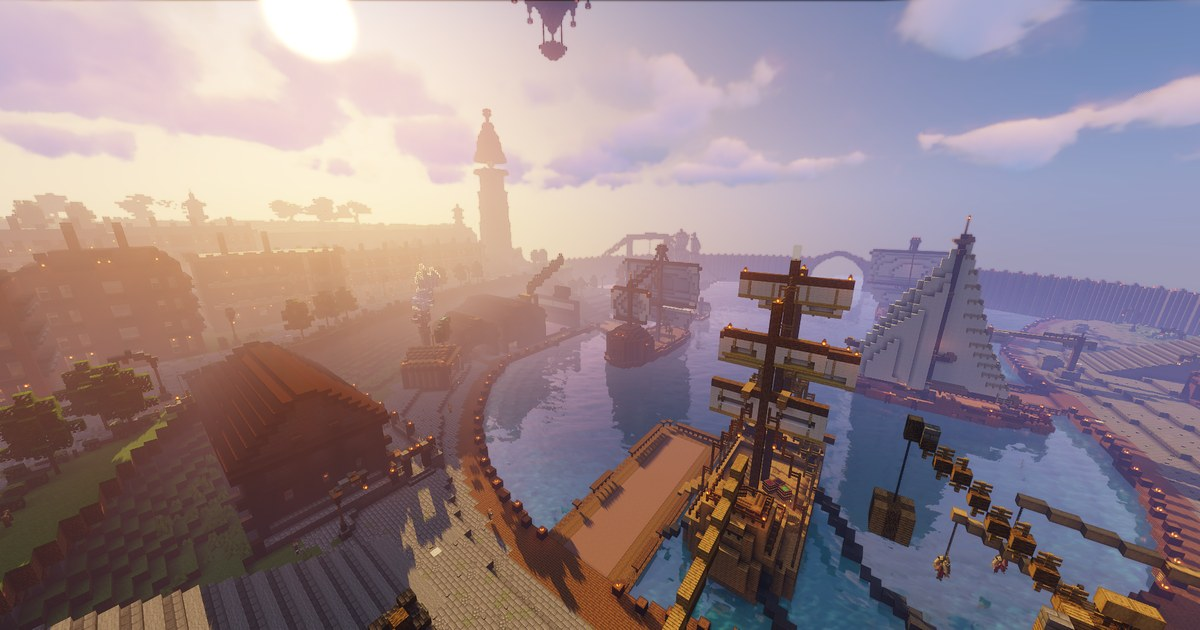
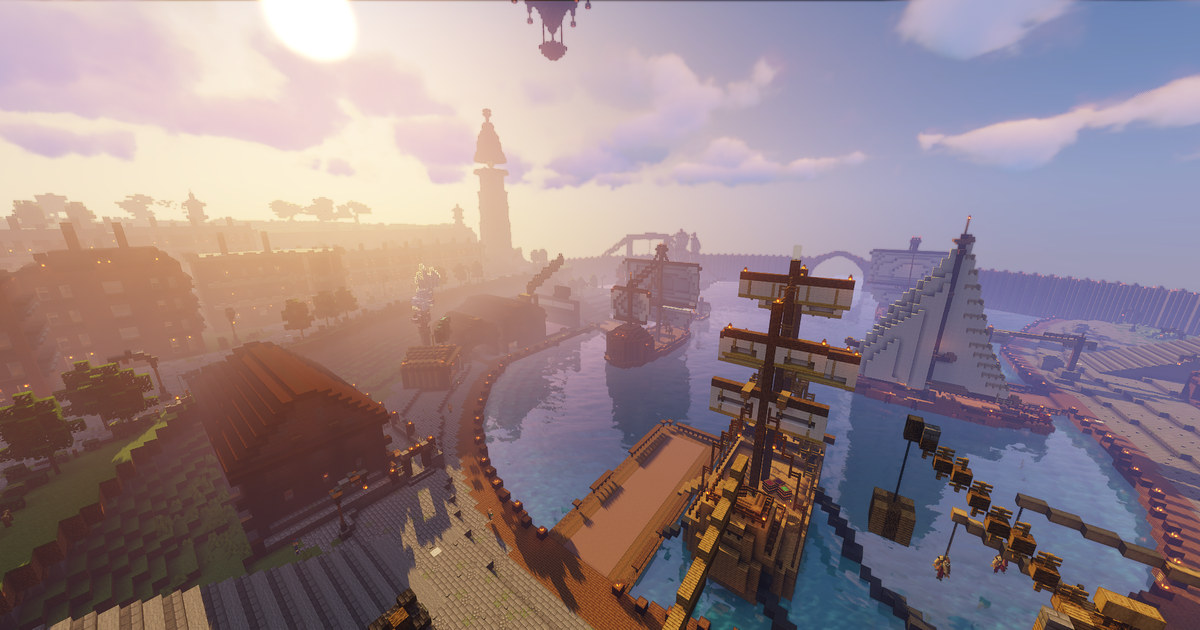
OG 이미지 안 뜨는 원인 2건 수정 — 프로그레시브 JPEG + robots.txt 폴백
① og-image.jpg 를 프로그레시브로 저장했었다. 디스코드 미디어 프록시·
   카카오 스크랩 등 일부 프리뷰 파이프라인이 프로그레시브 JPEG 디코드에
   실패해 「제목·설명만 뜨고 이미지 빈칸」이 된다 → 베이스라인 재인코딩
   (build_og_image.py 에 progressive=False 고정, 162KB).
② /robots.txt 가 없어서 Caddy try_files 폴백이 index.html 을
   200 text/html 로 돌려주고 있었다 → 실제 robots.txt + sitemap.xml 추가.

og:image URL 에 ?v=2 를 달아 캐시된 실패 이미지 항목을 우회한다.

diff --git a/website/gear.html b/website/gear.html
@@ -13,8 +13,8 @@
   <meta property="og:url" content="https://barkan.kr/gear">
   <meta property="og:title" content="장비 도감 — 바르칸 열도">
   <meta property="og:description" content="바르칸 열도 장비 도감 — 낚싯대·작살·릴·줄·바늘·미끼·찌 226종의 등급, 스탯, 제작 재료, 획득처를 한자리에서.">
-  <meta property="og:image" content="https://barkan.kr/assets/og-image.jpg">
-  <meta property="og:image:secure_url" content="https://barkan.kr/assets/og-image.jpg">
+  <meta property="og:image" content="https://barkan.kr/assets/og-image.jpg?v=2">
+  <meta property="og:image:secure_url" content="https://barkan.kr/assets/og-image.jpg?v=2">
   <meta property="og:image:type" content="image/jpeg">
   <meta property="og:image:width" content="1200">
   <meta property="og:image:height" content="630">
@@ -22,7 +22,7 @@
   <meta name="twitter:card" content="summary_large_image">
   <meta name="twitter:title" content="장비 도감 — 바르칸 열도">
   <meta name="twitter:description" content="바르칸 열도 장비 도감 — 낚싯대·작살·릴·줄·바늘·미끼·찌 226종의 등급, 스탯, 제작 재료, 획득처를 한자리에서.">
-  <meta name="twitter:image" content="https://barkan.kr/assets/og-image.jpg">
+  <meta name="twitter:image" content="https://barkan.kr/assets/og-image.jpg?v=2">
   <meta name="twitter:image:alt" content="노을 진 바르칸 열도 항구 마을과 정박한 범선">
   <style>
     @font-face{font-family:"Barkan Aggro";src:url("/assets/barkan-aggro-light.ttf") format("truetype");font-weight:300;font-style:normal;font-display:swap}@font-face{font-family:"Barkan Aggro";src:url("/assets/barkan-aggro-medium.ttf") format("truetype");font-weight:400;font-style:normal;font-display:swap}@font-face{font-family:"Barkan Aggro";src:url("/assets/barkan-aggro-bold.ttf") format("truetype");font-weight:700 900;font-style:normal;font-display:swap}

diff --git a/website/catalog.html b/website/catalog.html
@@ -13,8 +13,8 @@
   <meta property="og:url" content="https://barkan.kr/catalog">
   <meta property="og:title" content="장비·부품 도감 — 바르칸 열도">
   <meta property="og:description" content="바르칸 열도 장비·부품·재료 도감 — 획득처, 능력치, 제작 재료">
-  <meta property="og:image" content="https://barkan.kr/assets/og-image.jpg">
-  <meta property="og:image:secure_url" content="https://barkan.kr/assets/og-image.jpg">
+  <meta property="og:image" content="https://barkan.kr/assets/og-image.jpg?v=2">
+  <meta property="og:image:secure_url" content="https://barkan.kr/assets/og-image.jpg?v=2">
   <meta property="og:image:type" content="image/jpeg">
   <meta property="og:image:width" content="1200">
   <meta property="og:image:height" content="630">
@@ -22,7 +22,7 @@
   <meta name="twitter:card" content="summary_large_image">
   <meta name="twitter:title" content="장비·부품 도감 — 바르칸 열도">
   <meta name="twitter:description" content="바르칸 열도 장비·부품·재료 도감 — 획득처, 능력치, 제작 재료">
-  <meta name="twitter:image" content="https://barkan.kr/assets/og-image.jpg">
+  <meta name="twitter:image" content="https://barkan.kr/assets/og-image.jpg?v=2">
   <meta name="twitter:image:alt" content="노을 진 바르칸 열도 항구 마을과 정박한 범선">
   <style>
     @font-face{font-family:"Barkan Aggro";src:url("/assets/barkan-aggro-light.ttf") format("truetype");font-weight:300;font-style:normal;font-display:swap}@font-face{font-family:"Barkan Aggro";src:url("/assets/barkan-aggro-medium.ttf") format("truetype");font-weight:400;font-style:normal;font-display:swap}@font-face{font-family:"Barkan Aggro";src:url("/assets/barkan-aggro-bold.ttf") format("truetype");font-weight:700 900;font-style:normal;font-display:swap}

diff --git a/website/dex.html b/website/dex.html
@@ -13,8 +13,8 @@
   <meta property="og:url" content="https://barkan.kr/dex">
   <meta property="og:title" content="물고기 도감 — 바르칸 열도">
   <meta property="og:description" content="바르칸 열도 물고기 도감 — 어종별 등급, 서식 지역과 획득 조건">
-  <meta property="og:image" content="https://barkan.kr/assets/og-image.jpg">
-  <meta property="og:image:secure_url" content="https://barkan.kr/assets/og-image.jpg">
+  <meta property="og:image" content="https://barkan.kr/assets/og-image.jpg?v=2">
+  <meta property="og:image:secure_url" content="https://barkan.kr/assets/og-image.jpg?v=2">
   <meta property="og:image:type" content="image/jpeg">
   <meta property="og:image:width" content="1200">
   <meta property="og:image:height" content="630">
@@ -22,7 +22,7 @@
   <meta name="twitter:card" content="summary_large_image">
   <meta name="twitter:title" content="물고기 도감 — 바르칸 열도">
   <meta name="twitter:description" content="바르칸 열도 물고기 도감 — 어종별 등급, 서식 지역과 획득 조건">
-  <meta name="twitter:image" content="https://barkan.kr/assets/og-image.jpg">
+  <meta name="twitter:image" content="https://barkan.kr/assets/og-image.jpg?v=2">
   <meta name="twitter:image:alt" content="노을 진 바르칸 열도 항구 마을과 정박한 범선">
   <style>
     @font-face{font-family:"Barkan Aggro";src:url("/assets/barkan-aggro-light.ttf") format("truetype");font-weight:300;font-style:normal;font-display:swap}@font-face{font-family:"Barkan Aggro";src:url("/assets/barkan-aggro-medium.ttf") format("truetype");font-weight:400;font-style:normal;font-display:swap}@font-face{font-family:"Barkan Aggro";src:url("/assets/barkan-aggro-bold.ttf") format("truetype");font-weight:700 900;font-style:normal;font-display:swap}

diff --git a/website/wiki.html b/website/wiki.html
@@ -13,8 +13,8 @@
   <meta property="og:url" content="https://barkan.kr/wiki">
   <meta property="og:title" content="바르칸 위키 — 바르칸 열도">
   <meta property="og:description" content="바르칸 열도 공식 위키 — 시스템, 명령어와 항해 안내">
-  <meta property="og:image" content="https://barkan.kr/assets/og-image.jpg">
-  <meta property="og:image:secure_url" content="https://barkan.kr/assets/og-image.jpg">
+  <meta property="og:image" content="https://barkan.kr/assets/og-image.jpg?v=2">
+  <meta property="og:image:secure_url" content="https://barkan.kr/assets/og-image.jpg?v=2">
   <meta property="og:image:type" content="image/jpeg">
   <meta property="og:image:width" content="1200">
   <meta property="og:image:height" content="630">
@@ -22,7 +22,7 @@
   <meta name="twitter:card" content="summary_large_image">
   <meta name="twitter:title" content="바르칸 위키 — 바르칸 열도">
   <meta name="twitter:description" content="바르칸 열도 공식 위키 — 시스템, 명령어와 항해 안내">
-  <meta name="twitter:image" content="https://barkan.kr/assets/og-image.jpg">
+  <meta name="twitter:image" content="https://barkan.kr/assets/og-image.jpg?v=2">
   <meta name="twitter:image:alt" content="노을 진 바르칸 열도 항구 마을과 정박한 범선">
   <style>
     @font-face{font-family:"Barkan Aggro";src:url("/assets/barkan-aggro-light.ttf") format("truetype");font-weight:300;font-style:normal;font-display:swap}@font-face{font-family:"Barkan Aggro";src:url("/assets/barkan-aggro-medium.ttf") format("truetype");font-weight:400;font-style:normal;font-display:swap}@font-face{font-family:"Barkan Aggro";src:url("/assets/barkan-aggro-bold.ttf") format("truetype");font-weight:700 900;font-style:normal;font-display:swap}

diff --git a/website/law.html b/website/law.html
@@ -13,8 +13,8 @@
   <meta property="og:url" content="https://barkan.kr/law">
   <meta property="og:title" content="법전 — 바르칸 열도">
   <meta property="og:description" content="바르칸 열도 공식 법전 — 모두가 안전하게 항해하기 위한 서버 이용규칙">
-  <meta property="og:image" content="https://barkan.kr/assets/og-image.jpg">
-  <meta property="og:image:secure_url" content="https://barkan.kr/assets/og-image.jpg">
+  <meta property="og:image" content="https://barkan.kr/assets/og-image.jpg?v=2">
+  <meta property="og:image:secure_url" content="https://barkan.kr/assets/og-image.jpg?v=2">
   <meta property="og:image:type" content="image/jpeg">
   <meta property="og:image:width" content="1200">
   <meta property="og:image:height" content="630">
@@ -22,7 +22,7 @@
   <meta name="twitter:card" content="summary_large_image">
   <meta name="twitter:title" content="법전 — 바르칸 열도">
   <meta name="twitter:description" content="바르칸 열도 공식 법전 — 모두가 안전하게 항해하기 위한 서버 이용규칙">
-  <meta name="twitter:image" content="https://barkan.kr/assets/og-image.jpg">
+  <meta name="twitter:image" content="https://barkan.kr/assets/og-image.jpg?v=2">
   <meta name="twitter:image:alt" content="노을 진 바르칸 열도 항구 마을과 정박한 범선">
   <style>
     @font-face{font-family:"Barkan Aggro";src:url("/assets/barkan-aggro-light.ttf") format("truetype");font-weight:300;font-style:normal;font-display:swap}

diff --git a/website/map.html b/website/map.html
@@ -13,8 +13,8 @@
   <meta property="og:url" content="https://barkan.kr/map">
   <meta property="og:title" content="항해 지도 — 바르칸 열도">
   <meta property="og:description" content="바르칸 열도의 실제 서버 지역 좌표와 주요 마을을 탐색하는 3D 지도">
-  <meta property="og:image" content="https://barkan.kr/assets/og-image.jpg">
-  <meta property="og:image:secure_url" content="https://barkan.kr/assets/og-image.jpg">
+  <meta property="og:image" content="https://barkan.kr/assets/og-image.jpg?v=2">
+  <meta property="og:image:secure_url" content="https://barkan.kr/assets/og-image.jpg?v=2">
   <meta property="og:image:type" content="image/jpeg">
   <meta property="og:image:width" content="1200">
   <meta property="og:image:height" content="630">
@@ -22,7 +22,7 @@
   <meta name="twitter:card" content="summary_large_image">
   <meta name="twitter:title" content="항해 지도 — 바르칸 열도">
   <meta name="twitter:description" content="바르칸 열도의 실제 서버 지역 좌표와 주요 마을을 탐색하는 3D 지도">
-  <meta name="twitter:image" content="https://barkan.kr/assets/og-image.jpg">
+  <meta name="twitter:image" content="https://barkan.kr/assets/og-image.jpg?v=2">
   <meta name="twitter:image:alt" content="노을 진 바르칸 열도 항구 마을과 정박한 범선">
   <script src="/assets/map-data.js?v=2"></script>
   <script src="/assets/site-nav.js?v=8" defer></script>

diff --git a/website/index.html b/website/index.html
@@ -13,8 +13,8 @@
   <meta property="og:url" content="https://barkan.kr/">
   <meta property="og:title" content="바르칸 열도 - Barkan Islands">
   <meta property="og:description" content="낚시가 시작점이 되는 마인크래프트 서버, 바르칸 열도.">
-  <meta property="og:image" content="https://barkan.kr/assets/og-image.jpg">
-  <meta property="og:image:secure_url" content="https://barkan.kr/assets/og-image.jpg">
+  <meta property="og:image" content="https://barkan.kr/assets/og-image.jpg?v=2">
+  <meta property="og:image:secure_url" content="https://barkan.kr/assets/og-image.jpg?v=2">
   <meta property="og:image:type" content="image/jpeg">
   <meta property="og:image:width" content="1200">
   <meta property="og:image:height" content="630">
@@ -22,7 +22,7 @@
   <meta name="twitter:card" content="summary_large_image">
   <meta name="twitter:title" content="바르칸 열도 - Barkan Islands">
   <meta name="twitter:description" content="낚시가 시작점이 되는 마인크래프트 서버, 바르칸 열도.">
-  <meta name="twitter:image" content="https://barkan.kr/assets/og-image.jpg">
+  <meta name="twitter:image" content="https://barkan.kr/assets/og-image.jpg?v=2">
   <meta name="twitter:image:alt" content="노을 진 바르칸 열도 항구 마을과 정박한 범선">
   <style>
     @font-face{font-family:Barkan;src:url('/assets/barkan-aggro-light.ttf') format('truetype');font-weight:300;font-display:swap}

diff --git a/website/ranking.html b/website/ranking.html
@@ -13,8 +13,8 @@
   <meta property="og:url" content="https://barkan.kr/ranking">
   <meta property="og:title" content="명예의 전당 — 바르칸 열도">
   <meta property="og:description" content="바르칸 열도 공식 랭킹">
-  <meta property="og:image" content="https://barkan.kr/assets/og-image.jpg">
-  <meta property="og:image:secure_url" content="https://barkan.kr/assets/og-image.jpg">
+  <meta property="og:image" content="https://barkan.kr/assets/og-image.jpg?v=2">
+  <meta property="og:image:secure_url" content="https://barkan.kr/assets/og-image.jpg?v=2">
   <meta property="og:image:type" content="image/jpeg">
   <meta property="og:image:width" content="1200">
   <meta property="og:image:height" content="630">
@@ -22,7 +22,7 @@
   <meta name="twitter:card" content="summary_large_image">
   <meta name="twitter:title" content="명예의 전당 — 바르칸 열도">
   <meta name="twitter:description" content="바르칸 열도 공식 랭킹">
-  <meta name="twitter:image" content="https://barkan.kr/assets/og-image.jpg">
+  <meta name="twitter:image" content="https://barkan.kr/assets/og-image.jpg?v=2">
   <meta name="twitter:image:alt" content="노을 진 바르칸 열도 항구 마을과 정박한 범선">
   <style>
     :root{--ink:#061323;--deep:#081b2e;--panel:#0d2940;--foam:#edf8f8;--mist:#abc4ce;--tide:#8ce2e0;--gold:#ffd170;--silver:#c8d7dd;--bronze:#d99762;--line:rgba(213,240,242,.16)}

diff --git a/website/build_og_image.py b/website/build_og_image.py
@@ -27,7 +27,10 @@ else:
     ch = round(sw / target)
     box = (0, (sh - ch) // 2, sw, (sh - ch) // 2 + ch)
 
+# progressive=False 가 중요하다 — 프로그레시브 JPEG 는 일부 링크 프리뷰
+# 파이프라인(디스코드 미디어 프록시·카카오 스크랩)이 디코드에 실패해
+# 「제목·설명만 뜨고 이미지는 빈칸」이 된다. 베이스라인만 쓴다.
 im.crop(box).resize((W, H), Image.LANCZOS).save(
-    OUT, "JPEG", quality=88, optimize=True, progressive=True
+    OUT, "JPEG", quality=88, optimize=True, progressive=False, subsampling=0
 )
 print(f"{OUT.name}: {W}x{H}  {OUT.stat().st_size // 1024} KB  (crop {box} of {sw}x{sh})")
